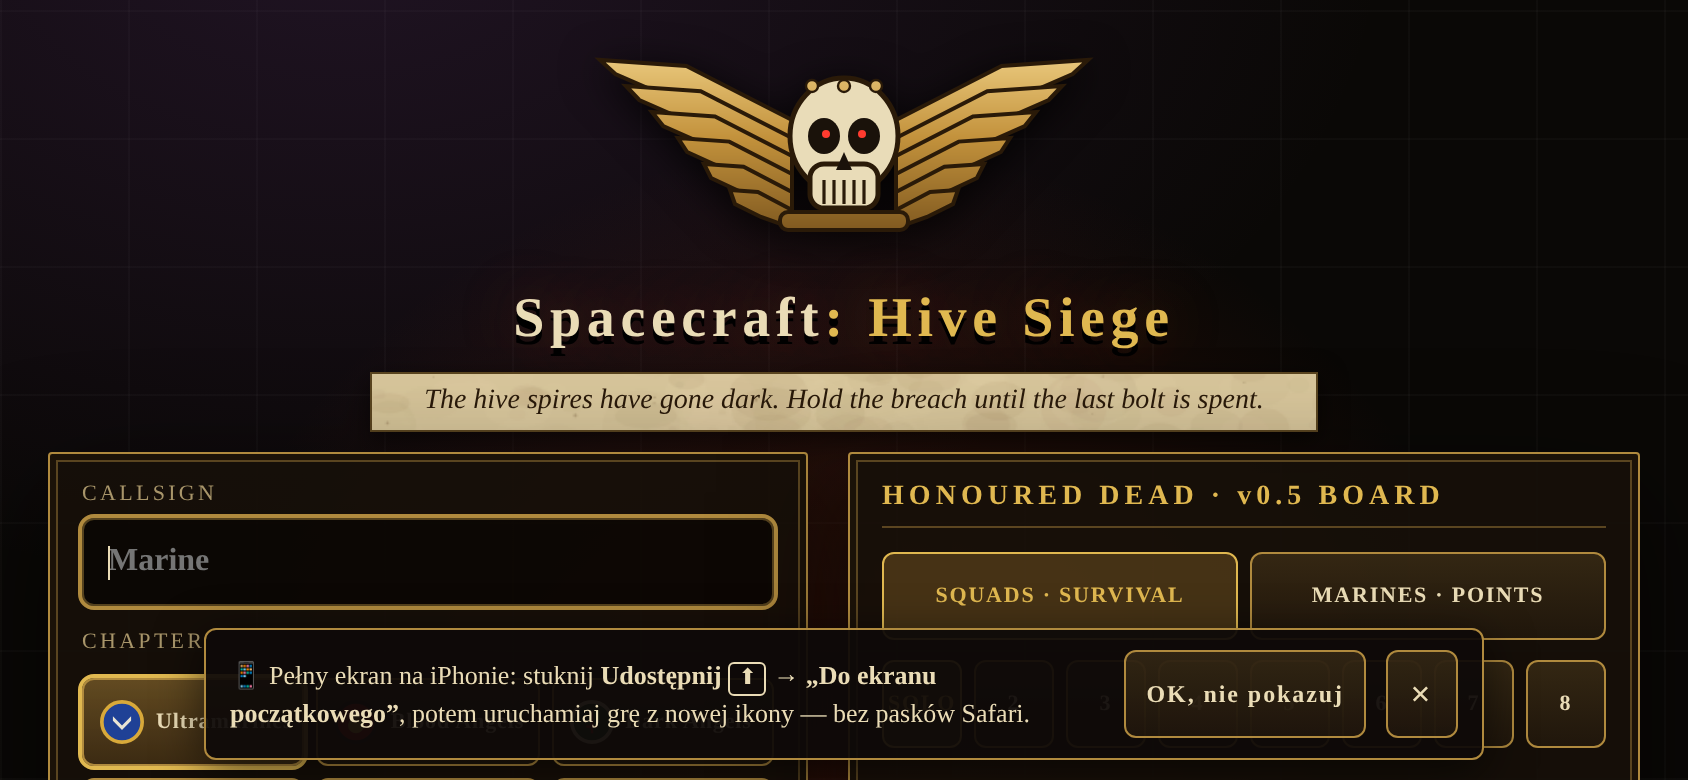
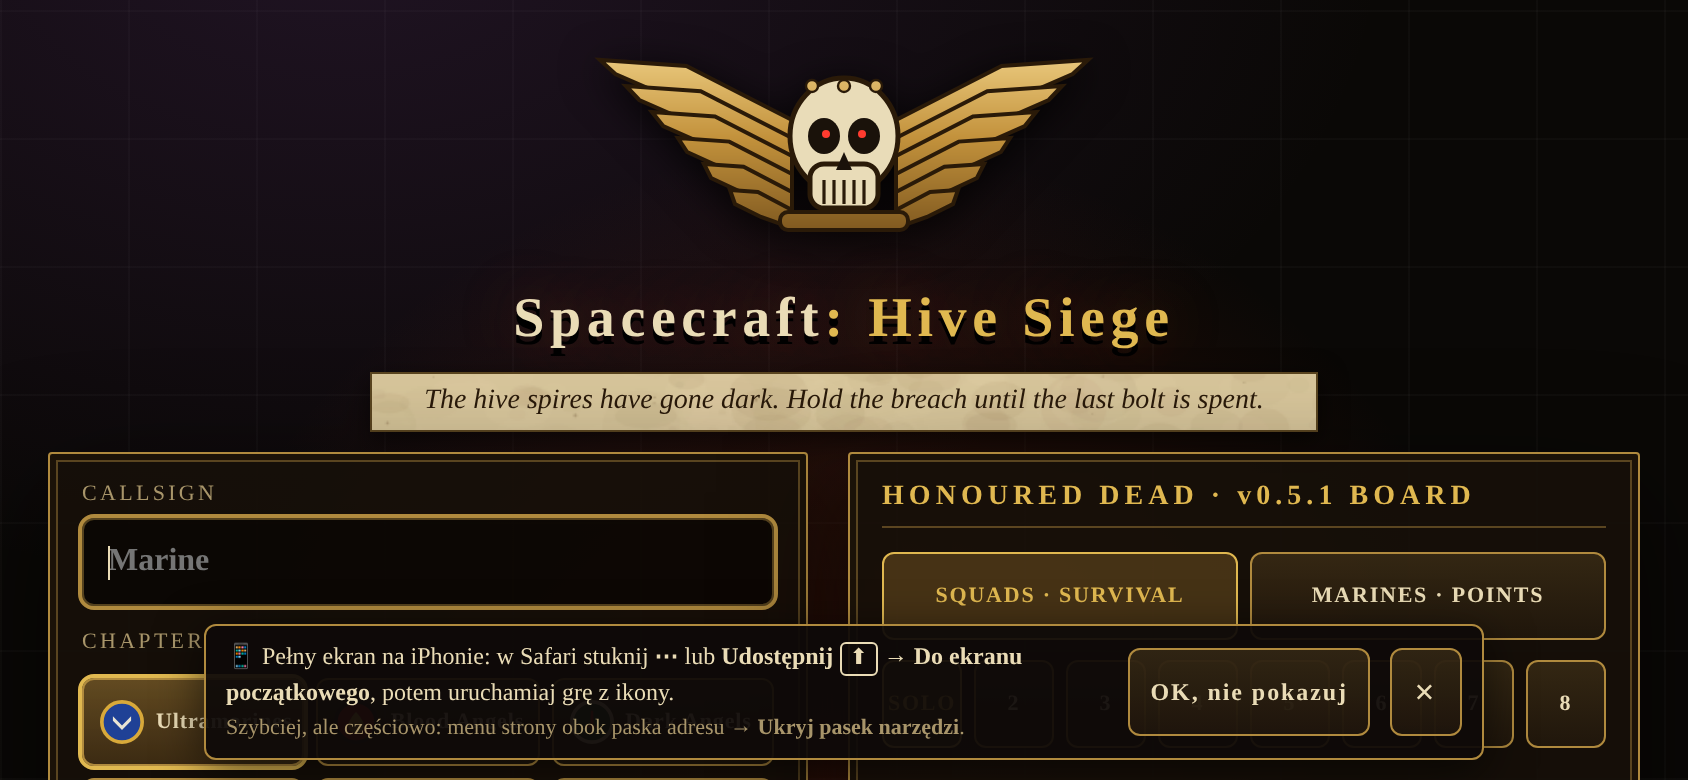
iPhone hint: ⋯/Udostępnij → Do ekranu początkowego + smaller 'Ukryj pasek narzędzi' option; feature-detected Fullscreen API (std + webkit) used automatically, hint hidden then; fits 667x375

Changed region(s): [[0.1232, 0.8, 0.8934, 0.9538], [0.7701, 0.6154, 0.8934, 0.6462], [0.8626, 0.8615, 0.8934, 0.8923]]

diff --git a/scripts/ios-hint-shot.ts b/scripts/ios-hint-shot.ts
@@ -1,13 +1,14 @@
 /**
- * iPhone "add to home screen" hint check (needs `npm run dev`): emulates an iPhone in landscape
- * and portrait-free 844x390, screenshots the hint (docs/review/ios-hint-844x390.png), taps
+ * iPhone "add to home screen" hint check (needs `npm run dev`): emulates an iPhone (no page
+ * Fullscreen API, like real iPhone Safari) at 844x390 and 667x375, screenshots the hint
+ * (docs/review/ios-hint-<WxH>.png), checks it fits, taps
  * "OK, nie pokazuj", reloads and checks it stays gone; checks Android never sees it and that the
  * apple-touch-icon / manifest icons resolve.
  * Usage: npx tsx scripts/ios-hint-shot.ts [clientUrl]
  */
 import path from 'node:path';
 import { fileURLToPath } from 'node:url';
-import puppeteer from 'puppeteer-core';
+import puppeteer, { type Page } from 'puppeteer-core';
 
 const root = path.resolve(path.dirname(fileURLToPath(import.meta.url)), '..');
 const CLIENT = (process.argv[2] ?? 'http://localhost:5173/').replace(/\/?$/, '/');
@@ -34,17 +35,54 @@ const vp = {
   isLandscape: true,
 };
 
-const ios = await browser.newPage();
-await ios.setUserAgent(IPHONE_UA);
-await ios.setViewport(vp);
-await ios.goto(`${CLIENT}?firestore=0`, { waitUntil: 'load' });
-await ios.waitForSelector('.menu #name', { timeout: 15000 });
-const hint = await ios.waitForSelector('.ios-hint', { timeout: 5000 }).catch(() => null);
-check(!!hint, 'iPhone Safari tab shows the home-screen hint');
-await new Promise((r) => setTimeout(r, 400));
-await ios.screenshot({ path: path.join(root, 'docs/review/ios-hint-844x390.png') });
-const box = await hint?.boundingBox();
-check(!!box && box.y + box.height <= vp.height && box.y >= 0, 'hint fully on screen');
+// Real iPhone Safari has no element fullscreen; headless Chrome does, so hide it for the iPhone.
+const NO_FULLSCREEN = () => {
+  Object.defineProperty(Document.prototype, 'fullscreenEnabled', { get: () => false });
+  Object.defineProperty(Document.prototype, 'webkitFullscreenEnabled', { get: () => false });
+};
+let ios = null as unknown as Page;
+for (const [w, h] of [
+  [667, 375],
+  [844, 390],
+]) {
+  ios = await browser.newPage();
+  await ios.evaluateOnNewDocument('globalThis.__name = (f) => f'); // tsx helper in page fns
+  await ios.evaluateOnNewDocument(NO_FULLSCREEN);
+  await ios.setUserAgent(IPHONE_UA);
+  await ios.setViewport({ ...vp, width: w, height: h });
+  await ios.goto(`${CLIENT}?firestore=0`, { waitUntil: 'load' });
+  await ios.waitForSelector('.menu #name', { timeout: 15000 });
+  const hint = await ios.waitForSelector('.ios-hint', { timeout: 5000 }).catch(() => null);
+  check(!!hint, `${w}x${h}: iPhone Safari tab shows the home-screen hint`);
+  await new Promise((r) => setTimeout(r, 400));
+  await ios.screenshot({ path: path.join(root, `docs/review/ios-hint-${w}x${h}.png`) });
+  const fit = await ios.evaluate(() => {
+    const el = document.querySelector('.ios-hint')!;
+    const r = el.getBoundingClientRect();
+    const inside = [...el.querySelectorAll('button')].every((b) => {
+      const q = b.getBoundingClientRect();
+      return (
+        q.left >= r.left && q.right <= r.right + 0.5 && q.top >= r.top && q.bottom <= r.bottom + 0.5
+      );
+    });
+    return {
+      ok: r.top >= 0 && r.bottom <= innerHeight && r.left >= 0 && r.right <= innerWidth && inside,
+      h: Math.round(r.height),
+      overflow: el.scrollWidth > el.clientWidth + 1 || el.scrollHeight > el.clientHeight + 1,
+    };
+  });
+  check(
+    fit.ok && !fit.overflow,
+    `${w}x${h}: hint fully on screen, nothing clipped (${fit.h}px tall)`,
+  );
+  check(fit.h <= h * 0.4, `${w}x${h}: hint leaves the menu usable (≤40% of the height)`);
+  const text = await ios.$eval('.ios-hint', (e) => e.textContent ?? '');
+  check(
+    text.includes('Do ekranu początkowego') && text.includes('Ukryj pasek narzędzi'),
+    `${w}x${h}: both options in the text`,
+  );
+  if (w !== 844) await ios.close();
+}
 await ios.tap('.ios-hint-ok');
 check((await ios.$('.ios-hint')) === null, 'OK dismisses it');
 await ios.reload({ waitUntil: 'load' });
@@ -73,6 +111,15 @@ await android.goto(`${CLIENT}?firestore=0`, { waitUntil: 'load' });
 await android.waitForSelector('.menu #name', { timeout: 15000 });
 await new Promise((r) => setTimeout(r, 500));
 check((await android.$('.ios-hint')) === null, 'Android never sees the iPhone hint');
+
+// A future iPhone Safari with a working Fullscreen API: no hint, the game goes fullscreen itself.
+const iosFs = await browser.newPage();
+await iosFs.setUserAgent(IPHONE_UA);
+await iosFs.setViewport(vp);
+await iosFs.goto(`${CLIENT}?firestore=0`, { waitUntil: 'load' });
+await iosFs.waitForSelector('.menu #name', { timeout: 15000 });
+await new Promise((r) => setTimeout(r, 500));
+check((await iosFs.$('.ios-hint')) === null, 'iPhone with Fullscreen API: no hint');
 
 await browser.close();
 process.exit(failed ? 1 : 0);

diff --git a/packages/client/src/ui/iosInstallHint.ts b/packages/client/src/ui/iosInstallHint.ts
@@ -1,3 +1,4 @@
+import { canFullscreen } from '../input/orientation.js';
 import { storage } from '../util/storage.js';
 
 /**
@@ -17,6 +18,8 @@ export interface IosEnv {
   standalone?: boolean;
   /** matchMedia('(display-mode: standalone|fullscreen)') */
   displayModeApp: boolean;
+  /** the page can go fullscreen itself (feature-detected) — then the game just does that */
+  fullscreenApi?: boolean;
 }
 
 /** iPhone / iPod / iPad (iPadOS reports itself as MacIntel with touch). */
@@ -27,9 +30,12 @@ export function isIos(env: Pick<IosEnv, 'userAgent' | 'platform' | 'maxTouchPoin
   );
 }
 
-/** Pure rule (unit tested): iOS browser tab (not the home-screen app), not dismissed yet. */
+/**
+ * Pure rule (unit tested): iOS browser tab (not the home-screen app), no usable Fullscreen API
+ * (if iPhone Safari ever ships one, the first tap goes fullscreen instead), not dismissed yet.
+ */
 export function shouldShowIosHint(env: IosEnv, dismissed: boolean): boolean {
-  return isIos(env) && !env.standalone && !env.displayModeApp && !dismissed;
+  return isIos(env) && !env.standalone && !env.displayModeApp && !env.fullscreenApi && !dismissed;
 }
 
 function currentEnv(): IosEnv {
@@ -43,11 +49,14 @@ function currentEnv(): IosEnv {
       matchMedia?.('(display-mode: standalone)').matches ||
       matchMedia?.('(display-mode: fullscreen)').matches ||
       false,
+    fullscreenApi: canFullscreen(),
   };
 }
 
 export const IOS_HINT_TEXT =
-  'Pełny ekran na iPhonie: stuknij <b>Udostępnij</b> <span class="ios-share" aria-hidden="true">⬆</span> → <b>„Do ekranu początkowego”</b>, potem uruchamiaj grę z nowej ikony — bez pasków Safari.';
+  'Pełny ekran na iPhonie: w Safari stuknij <b>⋯</b> lub <b>Udostępnij</b> <span class="ios-share" aria-hidden="true">⬆</span> → <b>Do ekranu początkowego</b>, potem uruchamiaj grę z ikony.';
+export const IOS_HINT_ALT =
+  'Szybciej, ale częściowo: menu strony obok paska adresu → <b>Ukryj pasek narzędzi</b>.';
 
 /** Shows the hint once per device until dismissed. Returns the element (or null). */
 export function initIosInstallHint(root: HTMLElement = document.body): HTMLElement | null {
@@ -55,7 +64,7 @@ export function initIosInstallHint(root: HTMLElement = document.body): HTMLEleme
   const el = document.createElement('div');
   el.className = 'ios-hint';
   el.setAttribute('role', 'note');
-  el.innerHTML = `<span class="ios-hint-text">📱 ${IOS_HINT_TEXT}</span>
+  el.innerHTML = `<span class="ios-hint-text">📱 ${IOS_HINT_TEXT}<small class="ios-hint-alt">${IOS_HINT_ALT}</small></span>
     <button class="ios-hint-ok" type="button">OK, nie pokazuj</button>
     <button class="ios-hint-close" type="button" aria-label="Zamknij">×</button>`;
   const dismiss = (remember: boolean) => {

diff --git a/packages/client/src/input/orientation.ts b/packages/client/src/input/orientation.ts
@@ -38,12 +38,46 @@ function isTouchPhone(): boolean {
   );
 }
 
+type FsDocument = Document & {
+  webkitFullscreenEnabled?: boolean;
+  webkitFullscreenElement?: Element | null;
+};
+type FsElement = HTMLElement & { webkitRequestFullscreen?: (opts?: FullscreenOptions) => unknown };
+
+/**
+ * Feature detection only (no user-agent checks): true when this browser lets a page go
+ * fullscreen (standard API or the webkit-prefixed one). iPhone Safari reports false today; if it
+ * ever enables it, the game uses it automatically and the home-screen hint is not shown.
+ */
+export function canFullscreen(
+  doc: FsDocument | undefined = typeof document === 'undefined' ? undefined : document,
+): boolean {
+  if (!doc) return false;
+  const el = doc.documentElement as FsElement;
+  return (
+    (typeof el.requestFullscreen === 'function' && doc.fullscreenEnabled === true) ||
+    (typeof el.webkitRequestFullscreen === 'function' && doc.webkitFullscreenEnabled === true)
+  );
+}
+
+export function isFullscreen(): boolean {
+  const doc = document as FsDocument;
+  return !!(doc.fullscreenElement ?? doc.webkitFullscreenElement);
+}
+
+async function enterFullscreen(): Promise<void> {
+  const doc = document as FsDocument;
+  const el = doc.documentElement as FsElement;
+  if (isFullscreen() || !canFullscreen(doc)) return;
+  if (typeof el.requestFullscreen === 'function' && doc.fullscreenEnabled)
+    await el.requestFullscreen({ navigationUI: 'hide' }).catch(() => undefined);
+  else await Promise.resolve(el.webkitRequestFullscreen?.()).catch(() => undefined);
+}
+
 /** Fullscreen + landscape lock. Must run inside a user gesture. Never throws. */
 export async function requestLandscape(): Promise<boolean> {
   try {
-    const el = document.documentElement;
-    if (!document.fullscreenElement && el.requestFullscreen && document.fullscreenEnabled)
-      await el.requestFullscreen({ navigationUI: 'hide' }).catch(() => undefined);
+    await enterFullscreen();
     const o = screen.orientation as
       (ScreenOrientation & { lock?: (o: string) => Promise<void> }) | undefined;
     if (!o?.lock) return false;

diff --git a/packages/client/src/input/TouchInput.ts b/packages/client/src/input/TouchInput.ts
@@ -4,7 +4,7 @@ import {
   type ContinuousIntent,
   type InputSource,
 } from './InputSource.js';
-import { requestLandscape } from './orientation.js';
+import { canFullscreen, isFullscreen, requestLandscape } from './orientation.js';
 import { VirtualStick, type StickVector } from './joystick.js';
 
 /** Tuning for the twin-stick layout (CSS px). */
@@ -72,8 +72,7 @@ export class TouchInput implements InputSource {
     host: HTMLElement,
     private readonly opts: TouchInputOptions = {},
   ) {
-    const canFullscreen =
-      !!document.documentElement.requestFullscreen && document.fullscreenEnabled;
+    const canFs = canFullscreen();
     this.layer = document.createElement('div');
     this.layer.className = 'touch-layer';
     this.layer.innerHTML = `
@@ -81,7 +80,7 @@ export class TouchInput implements InputSource {
         <button class="tb" data-act="menu" aria-label="Menu / leave game">⏸</button>
         <button class="tb" data-act="mute" aria-label="Mute">🔊</button>
         <button class="tb main" data-act="reload" aria-label="Reload">⟳<span>RELOAD</span></button>
-        ${canFullscreen ? '<button class="tb" data-act="fullscreen" aria-label="Fullscreen">⛶</button>' : ''}
+        ${canFs ? '<button class="tb" data-act="fullscreen" aria-label="Fullscreen">⛶</button>' : ''}
       </div>`;
     host.append(this.layer);
 
@@ -204,8 +203,11 @@ export class TouchInput implements InputSource {
 
 async function toggleFullscreen(): Promise<void> {
   try {
-    if (document.fullscreenElement) await document.exitFullscreen();
-    else {
+    if (isFullscreen()) {
+      const doc = document as Document & { webkitExitFullscreen?: () => unknown };
+      if (document.exitFullscreen) await document.exitFullscreen();
+      else await doc.webkitExitFullscreen?.();
+    } else {
       await requestLandscape();
     }
   } catch {

diff --git a/packages/client/test/iosHint.test.ts b/packages/client/test/iosHint.test.ts
@@ -1,6 +1,7 @@
 import { describe, expect, it } from 'vitest';
 import { isIos, shouldShowIosHint } from '../src/ui/iosInstallHint.js';
 import { isInScrollableUi } from '../src/input/TouchInput.js';
+import { canFullscreen } from '../src/input/orientation.js';
 
 const IPHONE =
   'Mozilla/5.0 (iPhone; CPU iPhone OS 17_5 like Mac OS X) AppleWebKit/605.1.15 (KHTML, like Gecko) Version/17.5 Mobile/15E148 Safari/604.1';
@@ -32,6 +33,24 @@ describe('iPhone home-screen hint', () => {
     expect(shouldShowIosHint(env({ standalone: true }), false)).toBe(false);
     expect(shouldShowIosHint(env({ displayModeApp: true }), false)).toBe(false);
     expect(shouldShowIosHint(env({ userAgent: ANDROID, platform: 'Linux' }), false)).toBe(false);
+  });
+
+  it('is not shown when the browser can go fullscreen itself (feature-detected)', () => {
+    expect(shouldShowIosHint(env({ fullscreenApi: false }), false)).toBe(true);
+    expect(shouldShowIosHint(env({ fullscreenApi: true }), false)).toBe(false);
+  });
+
+  it('canFullscreen detects the standard or webkit API, never by user agent', () => {
+    const doc = (o: Record<string, unknown>, el: Record<string, unknown>) =>
+      ({ ...o, documentElement: el }) as unknown as Document;
+    const fn = () => undefined;
+    expect(canFullscreen(doc({ fullscreenEnabled: true }, { requestFullscreen: fn }))).toBe(true);
+    expect(canFullscreen(doc({ fullscreenEnabled: false }, { requestFullscreen: fn }))).toBe(false);
+    expect(canFullscreen(doc({}, {}))).toBe(false); // iPhone Safari today
+    expect(
+      canFullscreen(doc({ webkitFullscreenEnabled: true }, { webkitRequestFullscreen: fn })),
+    ).toBe(true);
+    expect(canFullscreen(undefined)).toBe(false);
   });
 });
 

diff --git a/packages/client/src/ui/styles.css b/packages/client/src/ui/styles.css
@@ -1099,3 +1099,19 @@ body.rotate-blocked .ios-hint {
 #ui.hidden ~ .ios-hint {
   display: none;
 }
+
+.ios-hint-alt {
+  display: block;
+  margin-top: 3px;
+  color: var(--muted);
+  font-size: 11px;
+}
+@media (max-height: 400px) {
+  .ios-hint {
+    padding: 7px 10px;
+    font-size: 12px;
+  }
+  .ios-hint button {
+    min-height: 32px;
+  }
+}

diff --git a/README.md b/README.md
@@ -236,10 +236,14 @@ same Wi-Fi or use a hotspot.
 ### iPhone: full screen
 
 Safari on iPhone has no fullscreen for web pages (Android goes fullscreen + landscape on the first
-tap). The game shows a one-time Polish hint: **Udostępnij → „Do ekranu początkowego”**. Launched
-from that home-screen icon, the game runs without Safari's bars (manifest + apple meta tags,
-`start_url` "." so each `/vX.Y.Z/` installs that version). The hint is not shown again after
-dismissal (`sms.iosHint.dismissed` in localStorage) or inside the installed app.
+tap). Fullscreen support is feature-detected (`document.fullscreenEnabled` / webkit prefix), never
+by user agent: if iPhone Safari ever enables it, the first tap goes fullscreen and no hint is shown.
+Until then the game shows a one-time Polish hint: **⋯ lub Udostępnij → Do ekranu początkowego**,
+then launch the game from the icon. Launched from the home screen, the game runs without Safari's
+bars (manifest + apple meta tags, `start_url` "." so each `/vX.Y.Z/` installs that version). A
+smaller second line offers the quicker, partial option: page menu next to the address bar →
+**Ukryj pasek narzędzi**. The hint is not shown again after dismissal (`sms.iosHint.dismissed` in
+localStorage) or inside the installed app.
 
 ### Client URL parameters
 
